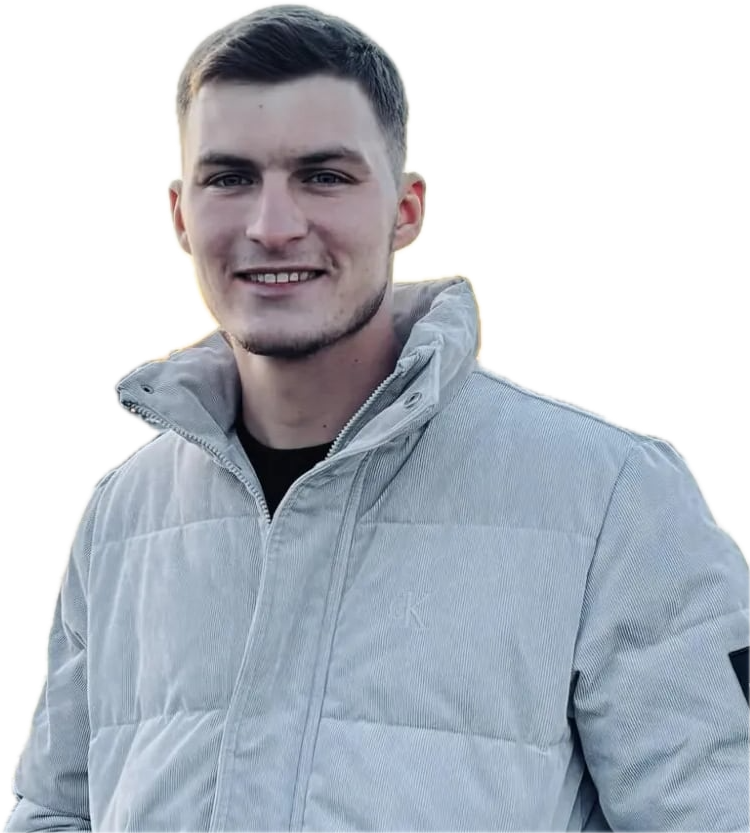
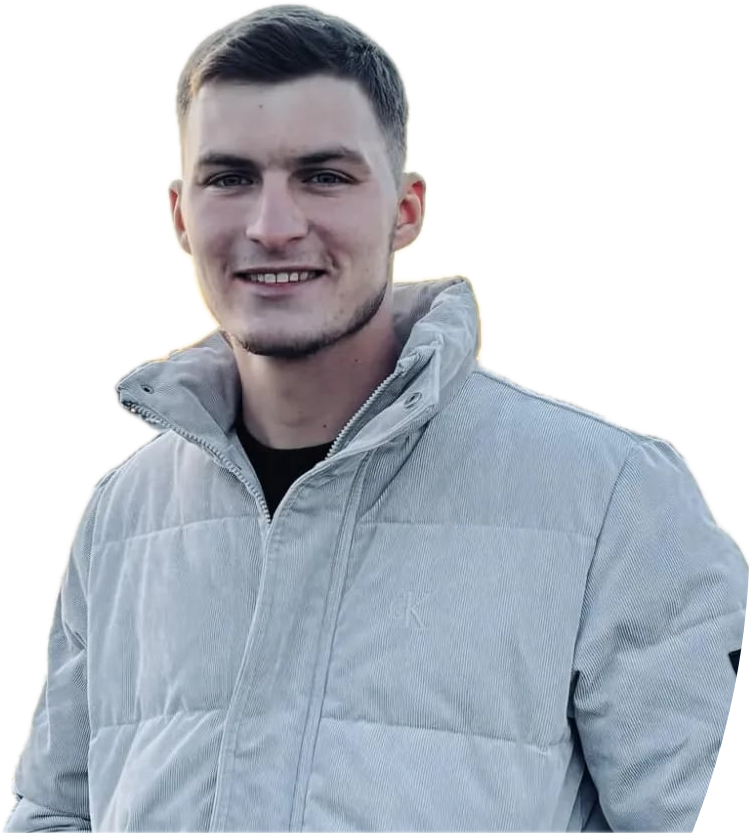
Équipe : frères plus bas sous le titre et centrés sur la ligne, veste de Simi arrondie, textes côte à côte sur téléphone

Changed region(s): [[0.92, 0.6867, 1.0, 1.0]]

diff --git a/docs/avancement.md b/docs/avancement.md
@@ -9,6 +9,7 @@
 - **Façon de travailler** : chaque nouveau changement se fait dans **une nouvelle branche** partie de `main`, puis est fusionné dans `main` une fois validé.
 
 ### Branche `ameliorations-accueil` (16 octobre 2026, à tester par Claudiu avant fusion)
+- **Équipe (suite)** : frères un peu plus bas sous « UNGUREANU » et légèrement à droite, ligne du sol juste sous eux ; veste de Simi arrondie à droite (la photo d'origine la coupait net) ; textes côte à côte aussi sur téléphone.
 - **Simulateur de surface dans le formulaire** (étape 2, sous « Surface ») : « Calculer la surface » ouvre deux compteurs − / + (largeur, niveaux) qui remplissent le champ tout seuls. La carte séparée à côté du formulaire est supprimée ; sur ordinateur, le titre est à gauche et le formulaire à droite. **Équipe** : photos entières, Simi un peu rapproché, aucune animation sur eux.
 - **Métiers sur téléphone** : une ligne par métier (icône, nom, flèche), la description est sur la page du métier. **FAQ** : grand titre « Questions fréquentes », sans pastille. **Simulateur** : sur téléphone, largeur et niveaux l'un sous l'autre, champs alignés. **Formulaire** : parcours testé (étapes, erreurs, envoi, remerciement) ; l'email faux est signalé avant la case à cocher. L'envoi réel par Netlify Forms reste à tester une fois le site en ligne.
 - **Lisibilité** : titres de section (h2) et phrases (accueil, équipe, À propos) en minuscules, un peu moins gras et moins serrés : les capitales serrées se lisaient lettre par lettre. Restent en capitales : le grand titre du haut de page, les prénoms, « UNGUREANU », les communes et les chiffres.
